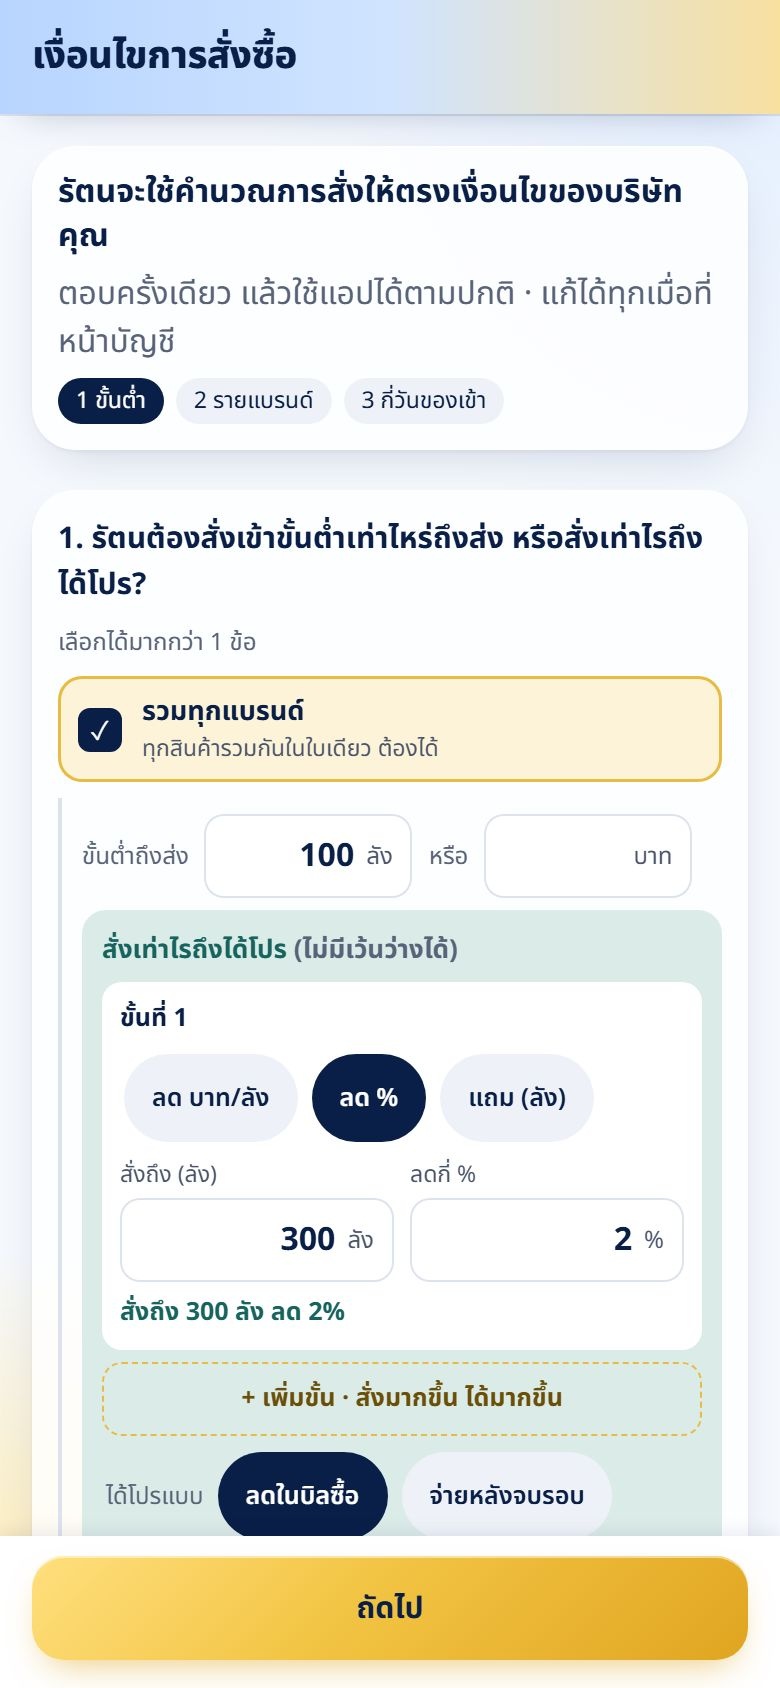
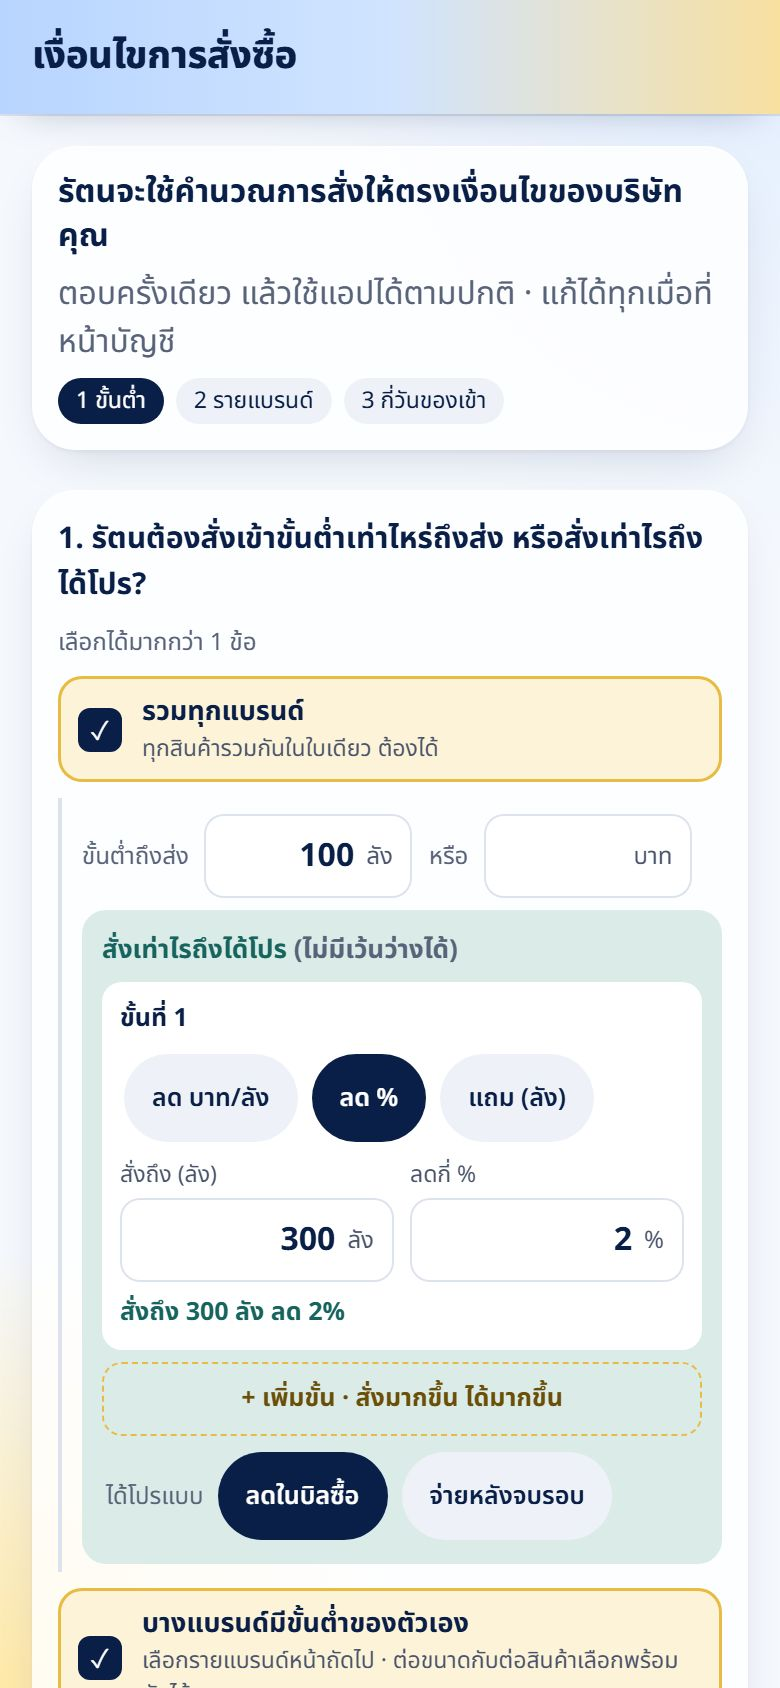
SupplyLink v1.79.2: แบบสอบถามบังคับตอบให้จบ ไม่มีปุ่มปิด ปุ่มถัดไปอยู่ท้ายหน้า · guide v1.9.1

Changed region(s): [[0.0, 0.8934, 0.9846, 1.0]]

diff --git a/rattana-supplylink.html b/rattana-supplylink.html
@@ -3,7 +3,7 @@
 <head>
 <meta charset="utf-8">
 <meta name="viewport" content="width=device-width, initial-scale=1, viewport-fit=cover">
-<title>SupplyLink — คู่ค้ารัตนไพบูลย์ v1.79.1</title>
+<title>SupplyLink — คู่ค้ารัตนไพบูลย์ v1.79.2</title>
 <meta name="theme-color" content="#B8D5FF">
 <link rel="icon" type="image/png" sizes="64x64" href="icons/rattana-supplylink-64.png">
 <link rel="icon" type="image/png" sizes="256x256" href="icons/rattana-supplylink.png">
@@ -1473,7 +1473,7 @@ body{font-family:var(--font);
 .otpromo{display:flex;flex-direction:column;gap:6px;background:var(--teal-soft);border-radius:12px;padding:10px}.otph{font-size:13px;color:var(--teal)}.otsfi{display:flex;flex-direction:column;gap:6px;background:var(--card);border-radius:10px;padding:9px}.otpg{display:grid;grid-template-columns:1fr 1fr;gap:8px}.otpg label{display:flex;flex-direction:column;gap:3px;font-size:11.5px;color:var(--ink-3)}.otpg .otin{width:100%}.otsum{font-size:12.5px;font-weight:700;color:var(--teal);min-height:16px}.otadd{border:1.5px dashed var(--gold);background:transparent;border-radius:10px;padding:8px;font:inherit;font-size:12.5px;font-weight:700;color:var(--gold-deep)}
 .otb{display:flex;flex-direction:column;gap:7px}.otex{display:block;font-size:11.5px;color:var(--ink-3);white-space:normal}.otzr{display:flex;flex-direction:column;padding-bottom:6px;border-bottom:1px solid var(--line)}
 .otsug{box-shadow:inset 0 0 0 1.5px var(--gold)}.ottag{align-self:flex-start;font-size:11px;font-weight:700;background:var(--gold-tint);color:var(--gold-deep);border-radius:var(--r-pill);padding:2px 8px}
-.otbar{position:sticky;bottom:0;display:flex;gap:10px;padding:10px var(--pad-screen) calc(14px + env(safe-area-inset-bottom));background:var(--card);box-shadow:0 -2px 8px rgba(10,31,71,.08);z-index:var(--z-sticky,100)}.otbar .btn{flex:1}
+.otbar{display:flex;gap:10px;margin-top:4px;padding-bottom:calc(8px + env(safe-area-inset-bottom))}.otbar .btn{flex:1}
 body.otgate #tabbar,body.otgate #railnav{display:none!important}
 </style>
 </head>
@@ -2038,7 +2038,7 @@ body.otgate #tabbar,body.otgate #railnav{display:none!important}
 
 /* ══ ตั้งค่า — แก้ตรงนี้ที่เดียว ══ */
 var CONFIG = {
-  APP_VERSION: 'v1.79.1',
+  APP_VERSION: 'v1.79.2',
   /* LIFF ของแอปนี้: LINE Developers → provider RTNPurchase → channel "RTNPurchase Supplier" (2011693023) → แท็บ LIFF
      ต้องอยู่ channel เดียวกับระบบลงทะเบียนเดิม ถึงจะได้ LINE User ID ตรงกับแท็บ Login Users · ว่าง = ยังไม่เปิดใช้จริง */
   LIFF_ID: '2011693023-xbdsN1K7',
@@ -4134,10 +4134,11 @@ V.terms = function () {
       '<div class="row otrow"><span class="grow">ผู้ติดต่อเร่งของ / ของขาด</span>'+otInp('contact', o.contact, '', 'ชื่อ · เบอร์', true)+'</div>'+
       '<div class="row otrow"><span class="grow">ช่วงปิดรับออเดอร์ (เทศกาล)</span>'+otInp('close', o.close, '', 'เช่น 28 ธ.ค.–3 ม.ค.', true)+'</div></div>';
   var last = step === 3, next = step === 1 && !o.some ? 3 : step + 1, prev = step === 3 && !o.some ? 1 : step - 1;
-  return '<div class="scr" id="s-terms">'+hdr('เงื่อนไขการสั่งซื้อ', need ? '' : 'profile')+
-    '<div class="body" data-tweak="เงื่อนไขการสั่งซื้อ">'+body+'</div>'+
-    '<div class="otbar" data-tweak="แถบปุ่มแบบสอบถาม">'+(step > 1 ? '<button class="btn line" data-act="otstep:'+prev+'">ย้อนกลับ</button>' : (need ? '' : '<button class="btn line" data-act="back:profile">ปิด</button>'))+
-      (last ? '<button class="btn gold" data-act="otsend"'+(S.otBusy ? ' disabled' : '')+'>'+(S.otBusy ? 'กำลังส่ง…' : 'ส่งให้จัดซื้อ')+'</button>' : '<button class="btn gold" data-act="otstep:'+next+'">ถัดไป</button>')+'</div></div>';
+  var force = need || S.otForce;                                  /* v1.79.2: ยังไม่ตอบ / มาจากปุ่ม LINE = ต้องตอบให้จบ ไม่มีปุ่มปิด/กลับ (Surat) */
+  return '<div class="scr" id="s-terms">'+hdr('เงื่อนไขการสั่งซื้อ', force ? '' : 'profile')+
+    '<div class="body" data-tweak="เงื่อนไขการสั่งซื้อ">'+body+   /* ปุ่มอยู่ท้ายเนื้อหา เลื่อนลงสุดแล้วค่อยกด */
+    '<div class="otbar" data-tweak="แถบปุ่มแบบสอบถาม">'+(step > 1 ? '<button class="btn line" data-act="otstep:'+prev+'">ย้อนกลับ</button>' : '')+
+      (last ? '<button class="btn gold" data-act="otsend"'+(S.otBusy ? ' disabled' : '')+'>'+(S.otBusy ? 'กำลังส่ง…' : 'ส่งให้จัดซื้อ')+'</button>' : '<button class="btn gold" data-act="otstep:'+next+'">ถัดไป</button>')+'</div></div></div>';
 };
 function otPayload(){
   var o = S.ot, G = otGroups(), num = function (v) { return String(v == null ? '' : v).replace(/[,\s]/g, ''); };
@@ -9748,7 +9749,7 @@ function startApp(){
   if (r === 'posent') r = S.poSent ? 'posent' : 'po';
   if ((r === 'product' || r === 'fill') && !P[S.prodId]) r = 'products';
   if (r === 'book2') r = 'book';
-  if (r === 'terms') { S.otIntro = 'line'; if (needVendor('terms')) { S.route = 'buyer'; S.hist = []; render(); return askVendor('terms'); } }   /* v1.79: ปุ่มตอบเลยจาก LINE ต้องเข้าแบบสอบถามเสมอ */
+  if (r === 'terms') { S.otIntro = 'line'; if (urlParam('from') === 'line') S.otForce = true; if (needVendor('terms')) { S.route = 'buyer'; S.hist = []; render(); return askVendor('terms'); } }   /* v1.79: ปุ่มตอบเลยจาก LINE ต้องเข้าแบบสอบถามเสมอ */
   S.route = r; S.hist = r === 'home' || r === 'line' ? [] : ['home'];
   render();
 }
@@ -10243,7 +10244,7 @@ document.addEventListener('click', function (e) {
     var otd = otPayload(); if (!(+otd.lead > 0)) return toast('ใส่จำนวนวันที่ของเข้าก่อน');
     S.otBusy = true; softRender();
     return api('termsSave', { rid:ridFor('terms'), data:otd, signer:CONTACT.name || '' }).then(function (r) {
-      delete RID.terms; S.otBusy = false; if (BUNDLE) BUNDLE.orderTerms = { at:r.at, by:r.by, data:r.data }; S.ot = null; try { cacheWrite(); } catch (e) {} toast('ส่งเงื่อนไขการสั่งซื้อแล้ว ขอบคุณครับ'); S.hist = []; S.route = 'home'; render();
+      delete RID.terms; S.otBusy = false; S.otForce = false; if (BUNDLE) BUNDLE.orderTerms = { at:r.at, by:r.by, data:r.data }; S.ot = null; try { cacheWrite(); } catch (e) {} toast('ส่งเงื่อนไขการสั่งซื้อแล้ว ขอบคุณครับ'); S.hist = []; S.route = 'home'; render();
     }, function (e) { S.otBusy = false; softRender(); toast(errText(e)); });
   }
   if (k === 'cbtick') { S.cbSel = S.cbSel || {}; if (S.cbSel.hasOwnProperty(v)) delete S.cbSel[v]; else S.cbSel[v] = ''; return softRender(); }

diff --git a/supplylink-guide.html b/supplylink-guide.html
@@ -3,7 +3,7 @@
 <head>
 <meta charset="utf-8">
 <meta name="viewport" content="width=device-width,initial-scale=1,viewport-fit=cover">
-<title>ฝึกใช้ SupplyLink v1.9.0</title>
+<title>ฝึกใช้ SupplyLink v1.9.1</title>
 <link rel="preconnect" href="https://fonts.googleapis.com">
 <link href="https://fonts.googleapis.com/css2?family=Noto+Sans+Thai:wght@400;500;600;700&display=swap" rel="stylesheet">
 <style>
@@ -138,7 +138,7 @@ button{font:inherit;cursor:pointer}
 
 <script>
 (function () {
-  var VER = 'v1.9.0', APP = 'https://liff.line.me/2011693023-xbdsN1K7';
+  var VER = 'v1.9.1', APP = 'https://liff.line.me/2011693023-xbdsN1K7';
   var IMG = {"h0":"supplylink-guide/h0.jpg","hinc":"supplylink-guide/hinc.jpg","hdef":"supplylink-guide/hdef.jpg","hpo":"supplylink-guide/hpo.jpg","s2":"supplylink-guide/s2.jpg","s4":"supplylink-guide/s4.jpg","s5":"supplylink-guide/s5.jpg","s6":"supplylink-guide/s6.jpg","s7":"supplylink-guide/s7.jpg","s9":"supplylink-guide/s9.jpg","s10":"supplylink-guide/s10.jpg","s11":"supplylink-guide/s11.jpg","z1":"supplylink-guide/z1.jpg","zm":"supplylink-guide/zm.jpg","zt":"supplylink-guide/zt.jpg","zs":"supplylink-guide/zs.jpg","zi":"supplylink-guide/zi.jpg","q1":"supplylink-guide/q1.jpg","q2":"supplylink-guide/q2.jpg","q3":"supplylink-guide/q3.jpg","q4":"supplylink-guide/q4.jpg","q5":"supplylink-guide/q5.jpg","q6":"supplylink-guide/q6.jpg","q7":"supplylink-guide/q7.jpg","q8":"supplylink-guide/q8.jpg","x1":"supplylink-guide/x1.jpg","x2":"supplylink-guide/x2.jpg","x3":"supplylink-guide/x3.jpg","x4":"supplylink-guide/x4.jpg","x5":"supplylink-guide/x5.jpg","x6":"supplylink-guide/x6.jpg","x7":"supplylink-guide/x7.jpg","a2":"supplylink-guide/a2.jpg","a3":"supplylink-guide/a3.jpg","a5":"supplylink-guide/a5.jpg","d2":"supplylink-guide/d2.jpg","a4":"supplylink-guide/a4.jpg","d3":"supplylink-guide/d3.jpg","d4":"supplylink-guide/d4.jpg","p1":"supplylink-guide/p1.jpg","p1b":"supplylink-guide/p1b.jpg","b2":"supplylink-guide/b2.jpg","b3":"supplylink-guide/b3.jpg","p5":"supplylink-guide/p5.jpg","c2":"supplylink-guide/c2.jpg","c3":"supplylink-guide/c3.jpg","k1":"supplylink-guide/k1.jpg","k2":"supplylink-guide/k2.jpg","k3":"supplylink-guide/k3.jpg","k4":"supplylink-guide/k4.jpg","k5":"supplylink-guide/k5.jpg","k6":"supplylink-guide/k6.jpg","k7":"supplylink-guide/k7.jpg","k9":"supplylink-guide/k9.jpg","k10":"supplylink-guide/k10.jpg","k11":"supplylink-guide/k11.jpg","n1":"supplylink-guide/n1.jpg","n2":"supplylink-guide/n2.jpg","n3":"supplylink-guide/n3.jpg","n4":"supplylink-guide/n4.jpg","n5":"supplylink-guide/n5.jpg","n6":"supplylink-guide/n6.jpg","n7":"supplylink-guide/n7.jpg","n8":"supplylink-guide/n8.jpg","n9":"supplylink-guide/n9.jpg","g1":"supplylink-guide/g1.jpg","g2":"supplylink-guide/g2.jpg","g3":"supplylink-guide/g3.jpg","g4":"supplylink-guide/g4.jpg","m1":"supplylink-guide/m1.jpg","m2":"supplylink-guide/m2.jpg","m3":"supplylink-guide/m3.jpg","m4":"supplylink-guide/m4.jpg","m5":"supplylink-guide/m5.jpg","f1":"supplylink-guide/f1.jpg","f2":"supplylink-guide/f2.jpg","f3":"supplylink-guide/f3.jpg","f4":"supplylink-guide/f4.jpg","dws":"supplylink-guide/dws.jpg","dwh":"supplylink-guide/dwh.jpg","stk":"supplylink-guide/stk.jpg","stk2":"supplylink-guide/stk2.jpg","stkh":"supplylink-guide/stkh.jpg","cbi":"supplylink-guide/cbi.jpg","cb1":"supplylink-guide/cb1.jpg","cb2":"supplylink-guide/cb2.jpg","cb3":"supplylink-guide/cb3.jpg","cbp":"supplylink-guide/cbp.jpg","ot0":"supplylink-guide/ot0.jpg","ot1":"supplylink-guide/ot1.jpg","ot2":"supplylink-guide/ot2.jpg","ot3":"supplylink-guide/ot3.jpg"};                                       /* แทนด้วยรูปตอน build */
   var HAND = '<svg class="hand" viewBox="0 0 48 48" aria-hidden="true"><path d="M19 6c2 0 3.5 1.6 3.5 3.6V22l1-.1V18c0-2 1.6-3.4 3.4-3.4S30.3 16 30.3 18v4.4l1-.1v-2.6c0-1.9 1.5-3.3 3.3-3.3s3.3 1.5 3.3 3.3v3.6l.8-.1c1.8 0 3.3 1.5 3.3 3.3V34c0 6.6-5.4 12-12 12h-3.4c-3.8 0-7.4-1.8-9.6-4.9L8.5 30.6c-1-1.4-.7-3.4.7-4.4 1.4-1 3.3-.8 4.4.5l2 2.4V9.6C15.6 7.6 17.1 6 19 6z" fill="#fff" stroke="#0A1F47" stroke-width="2.4" stroke-linejoin="round"/></svg>';
   var FLOWCARD = function () {                              /* ส่งแล้วเกิดอะไรขึ้น: ซัพตอบ → จัดซื้อยืนยัน → เปิด PO จริง */
@@ -257,7 +257,7 @@ button{font:inherit;cursor:pointer}
       { img:'ot1', r:[112, 415, 67, 26], h:'ขั้นต่ำถึงส่ง + โปรตามจำนวน', d:'ใส่ขั้นต่ำเป็นลังหรือบาท · สั่งเท่าไรได้โปร เลือก ลด บาท/ลัง · ลด % · แถม (ลัง) เพิ่มได้หลายขั้น', fx:'type', fxt:'100' },
       { img:'ot2', r:[31, 260, 93, 44], h:'รายแบรนด์', d:'ทั้งแบรนด์ = ใส่ช่องเดียว · ต่อขนาดกับต่อสินค้าเลือกพร้อมกันได้ · ไม่มีขั้นต่ำไม่ต้องแตะ' },
       { img:'ot3', r:[136, 151, 67, 26], h:'สั่งแล้วกี่วันของเข้า', d:'ภาพรวมทุกคลัง นับจากวันที่ได้ PO ถึงวันที่ของเข้า', fx:'type', fxt:'3' },
-      { img:'ot3', r:[200, 778, 174, 52], h:'ส่งให้จัดซื้อ', d:'ส่งแล้วใช้แอปได้ตามปกติ · แก้ได้ทุกเมื่อที่ หน้าบัญชี › เงื่อนไขการสั่งซื้อ' }
+      { img:'ot3', r:[200, 540, 174, 52], h:'ส่งให้จัดซื้อ', d:'ส่งแล้วใช้แอปได้ตามปกติ · แก้ได้ทุกเมื่อที่ หน้าบัญชี › เงื่อนไขการสั่งซื้อ' }
     ], end:'ตอบครั้งเดียวต่อบริษัท · เซลคนไหนตอบก็ได้ · รัตนใช้คำนวณการสั่งให้ตรงเงื่อนไข' },
     { k:'cb', t:'สินค้าที่ส่งมาให้ (CB)', g:'สินค้า CB', s:'ชดเชยราคา · รายการ · โปร · ลดทุน PO', n:6, steps:[
       { img:'cbi', r:[16, 485, 358, 74], h:'หน้าแรก › รายได้อื่น › สินค้าที่ส่งมาให้ (CB)', d:'ของที่ส่งมาให้รัตนตามเอกสาร CB ใน 180 วัน เลือกไปใช้ได้รายการละครั้ง' },
